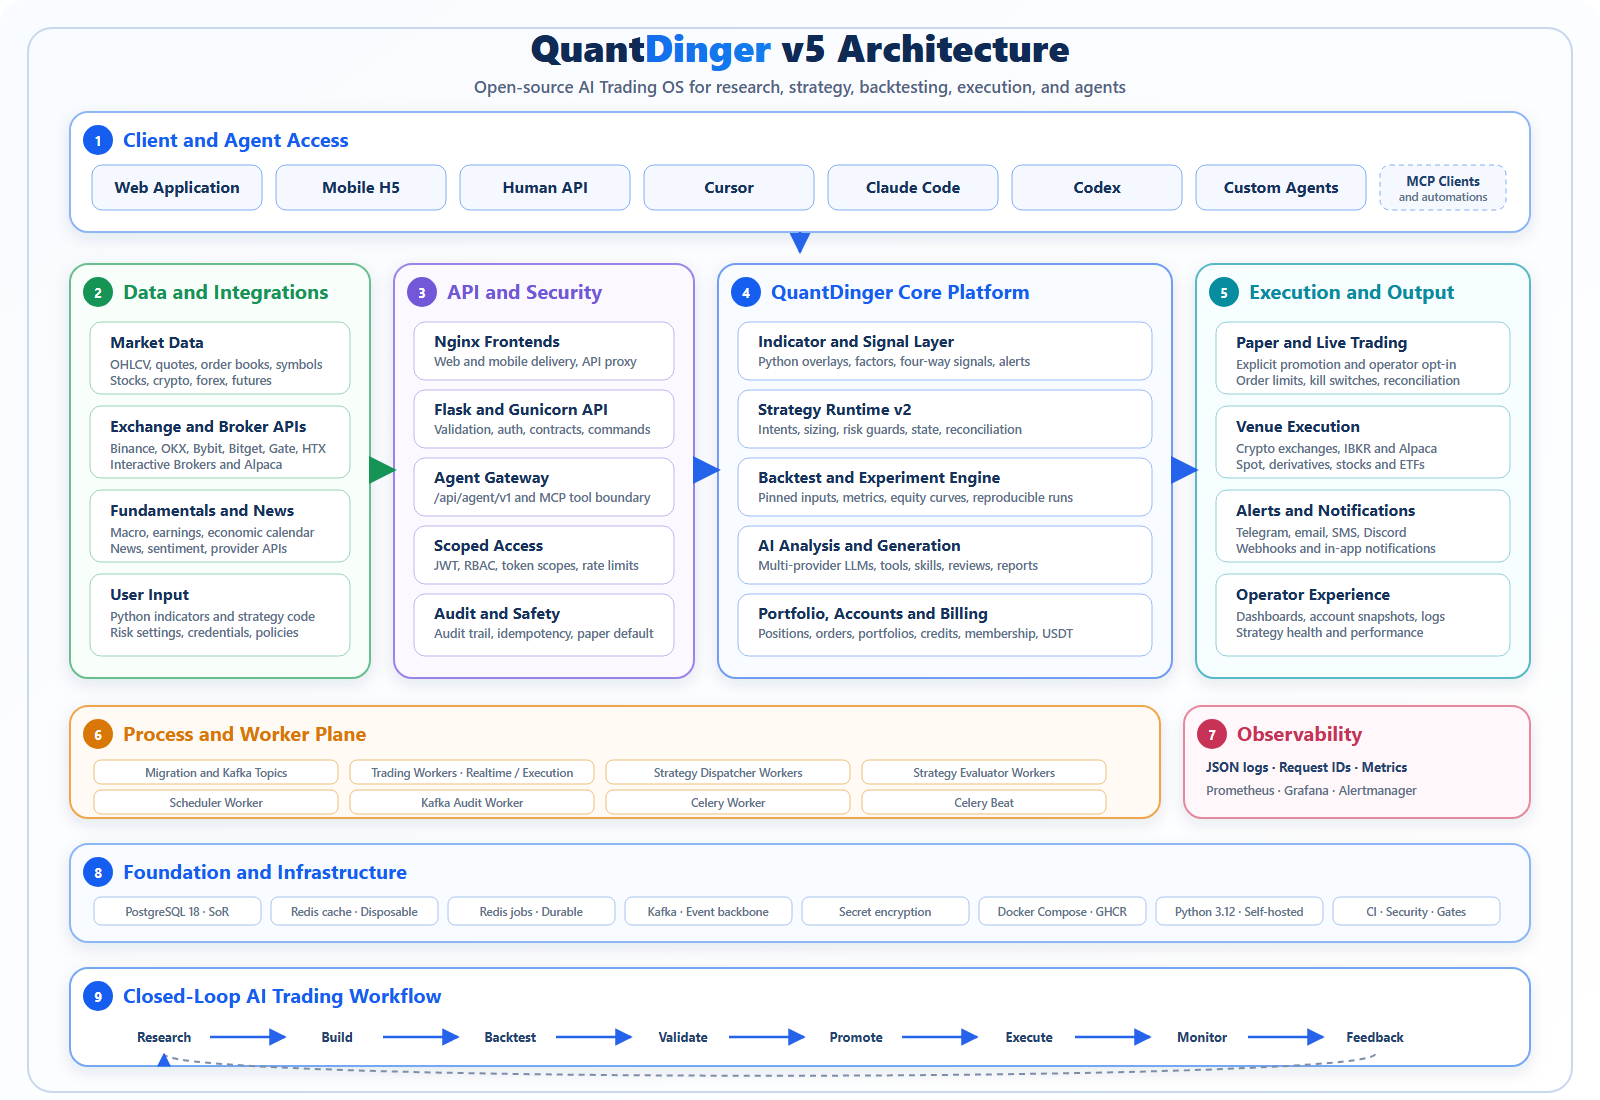
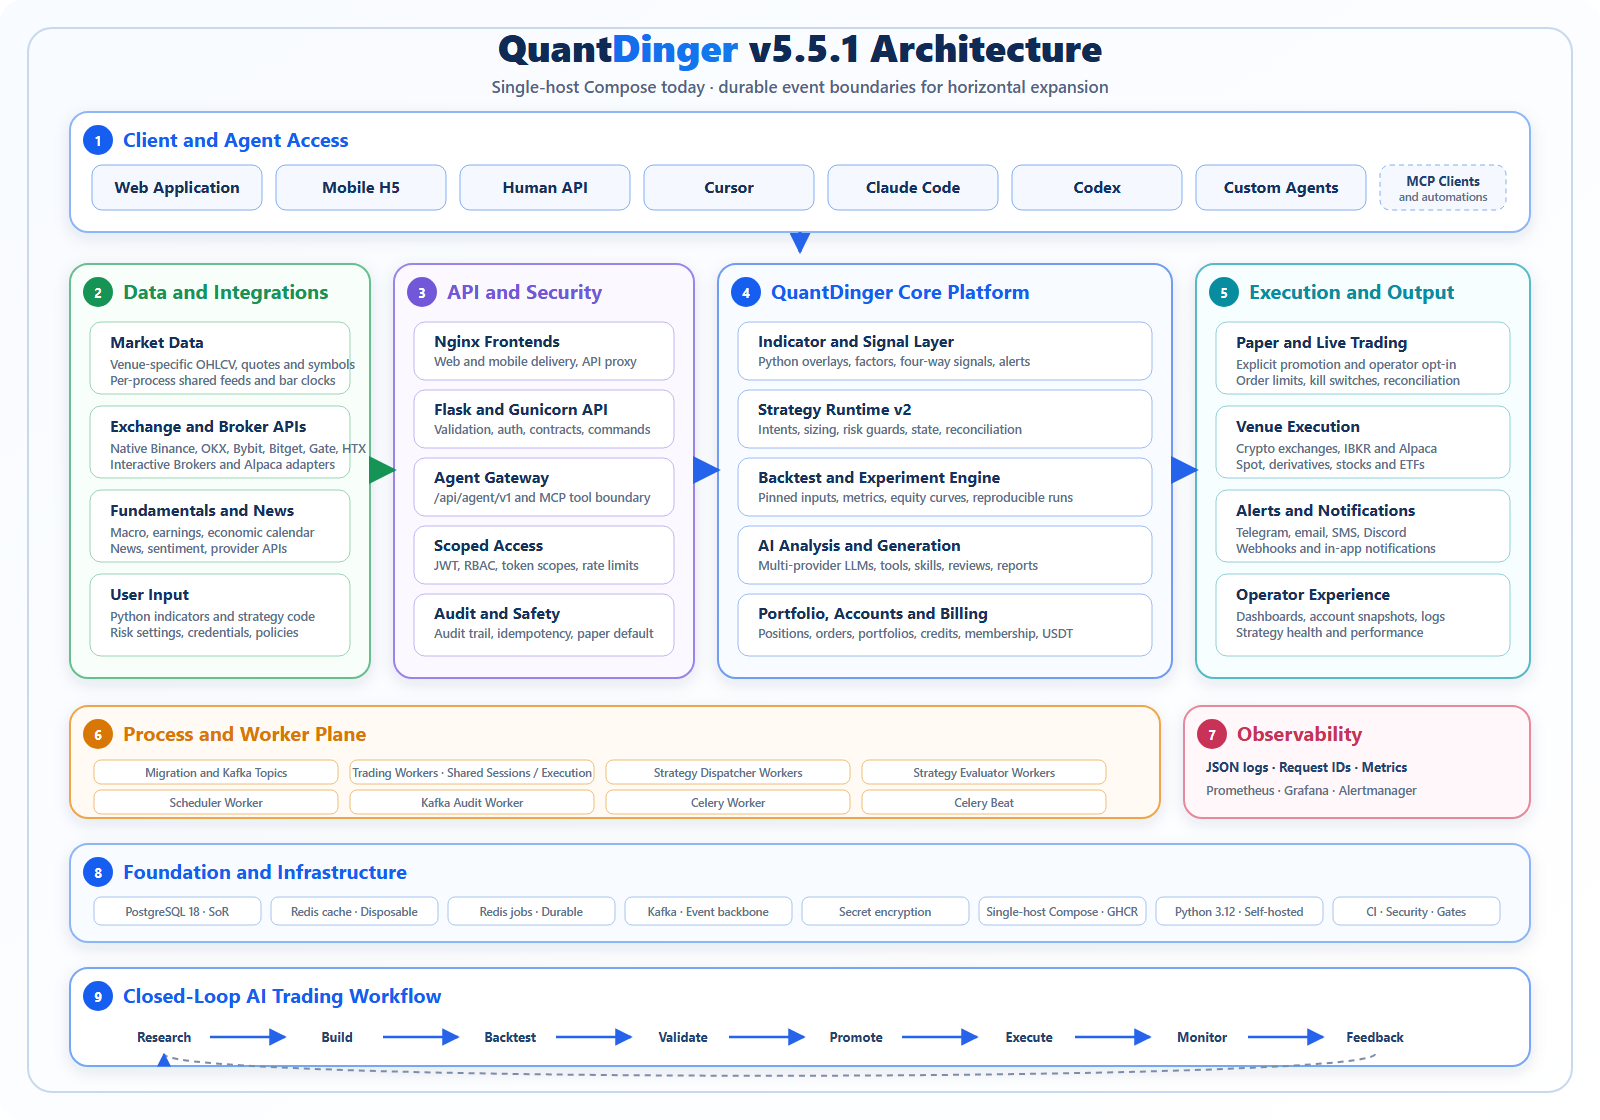
docs: prepare v5.5.1 release architecture

Changed region(s): [[0.0312, 0.0309, 0.9688, 1.0]]

diff --git a/docs/deployment/CLOUD_DEPLOYMENT_EN.md b/docs/deployment/CLOUD_DEPLOYMENT_EN.md
@@ -14,17 +14,20 @@ Use one public domain with a host-level Nginx reverse proxy:
 - Docker `frontend` binds to `127.0.0.1:8888`
 - Docker `mobile` binds to `127.0.0.1:8889`
 - Docker `backend` binds to `127.0.0.1:5000`
-- Docker `postgres` and `redis` bind to localhost only
+- Docker `postgres`, both Redis roles, and Kafka stay on the private Docker
+  network; any diagnostic host bindings must remain loopback-only
 
-Only expose `80` and `443` to the public internet. Keep `5000`, `5432`, and `6379` private.
+Only expose `80` and `443` to the public internet. Keep `5000`, `5432`,
+`6379`, and `29092` private.
 
 ## 1. Prepare the Server
 
 Recommended baseline:
 
 - Ubuntu 22.04 / 24.04 or Debian 12
-- 2 vCPU / 4 GB RAM minimum; 4 vCPU / 8 GB RAM is better for AI-heavy use
-- 30 GB+ disk space
+- 4 vCPU / 8 GB RAM minimum for a light single-host installation
+- 8 vCPU / 16 GB RAM recommended when strategies, AI jobs, and backtests run together
+- 50 GB+ disk space, with additional capacity for PostgreSQL backups and Kafka retention
 - Security group or firewall allows `22`, `80`, and `443`
 - A domain such as `app.example.com`
 
@@ -90,7 +93,7 @@ DB_PORT=127.0.0.1:5432
 REDIS_BIND=127.0.0.1:6379
 
 # Pin a release instead of floating latest, for example:
-# IMAGE_TAG=5.2.2
+# IMAGE_TAG=5.5.1
 
 # Use a Docker Hub mirror for postgres/redis when needed:
 # IMAGE_PREFIX=docker.m.daocloud.io/library/
@@ -114,7 +117,12 @@ docker compose -f docker-compose.ghcr.yml up -d --force-recreate frontend mobile
 
 The `backend` container listening internally on port `5000` is part of the application contract and is expected to remain fixed. `BACKEND_PORT=127.0.0.1:5000` controls only the host binding; frontend containers reach the API through `backend:5000` on the Docker network. To change the user-facing local port, update `FRONTEND_PORT` / `MOBILE_PORT` and recreate the containers.
 
-In production, never publish `5000`, `5432`, or `6379` directly to the internet. Expose only `80/443` through BT Panel or 1Panel Nginx/OpenResty: send page requests to the host-local Web frontend (default `127.0.0.1:8888`) and send `/api/` directly to the backend at `127.0.0.1:5000`. This remains same-origin in the browser while preventing a second proxy hop in the frontend container from replacing the real client IP.
+In production, never publish `5000`, `5432`, `6379`, or `29092` directly to
+the internet. Expose only `80/443` through BT Panel or 1Panel Nginx/OpenResty:
+send page requests to the host-local Web frontend (default
+`127.0.0.1:8888`) and send `/api/` directly to the backend at
+`127.0.0.1:5000`. This remains same-origin in the browser while preventing a
+second proxy hop in the frontend container from replacing the real client IP.
 
 ### Optional: full repository deployment
 

diff --git a/docs/deployment/CLOUD_DEPLOYMENT_CN.md b/docs/deployment/CLOUD_DEPLOYMENT_CN.md
@@ -14,17 +14,19 @@
 - Docker `frontend` 绑定到 `127.0.0.1:8888`
 - Docker `mobile` 绑定到 `127.0.0.1:8889`
 - Docker `backend` 绑定到 `127.0.0.1:5000`
-- Docker `postgres` 和 `redis` 只绑定本机地址
+- Docker `postgres`、两类 Redis 与 Kafka 保持在 Docker 私网；如为排障映射到宿主机，
+  也只能绑定回环地址
 
-公网只开放 `80` 和 `443`。不要把 `5000`、`5432`、`6379` 暴露到公网。
+公网只开放 `80` 和 `443`。不要把 `5000`、`5432`、`6379`、`29092` 暴露到公网。
 
 ## 1. 准备服务器
 
 推荐配置：
 
 - Ubuntu 22.04 / 24.04 或 Debian 12
-- 最低 2 核 4 GB 内存；AI 使用较多时建议 4 核 8 GB
-- 30 GB 以上磁盘空间
+- 轻量单机部署最低 4 核 8 GB 内存
+- 策略、AI 任务与回测同时运行时建议 8 核 16 GB 内存
+- 50 GB 以上磁盘，并为 PostgreSQL 备份与 Kafka 保留数据预留额外空间
 - 安全组或防火墙开放 `22`、`80`、`443`
 - 一个域名，例如 `app.example.com`
 
@@ -90,7 +92,7 @@ DB_PORT=127.0.0.1:5432
 REDIS_BIND=127.0.0.1:6379
 
 # 固定版本，避免一直使用 latest，例如：
-# IMAGE_TAG=5.2.2
+# IMAGE_TAG=5.5.1
 
 # postgres/redis 拉取慢时可设置 Docker Hub 镜像前缀：
 # IMAGE_PREFIX=docker.m.daocloud.io/library/
@@ -114,7 +116,10 @@ docker compose -f docker-compose.ghcr.yml up -d --force-recreate frontend mobile
 
 `backend` 容器内部监听 `5000` 是应用协议的一部分，保持不变是正常的。`BACKEND_PORT=127.0.0.1:5000` 修改的是宿主机绑定；前端容器通过 Docker 网络访问 `backend:5000`。如需调整用户访问端口，只修改 `FRONTEND_PORT` / `MOBILE_PORT`，然后重新创建容器。
 
-生产环境不要把 `5000`、`5432`、`6379` 直接暴露到公网。宝塔或 1Panel 的 Nginx/OpenResty 应只对公网开放 `80/443`：页面请求转发到宿主机本地的 Web 前端端口（默认 `127.0.0.1:8888`），`/api/` 请求直接转发到同样只绑定本机的后端端口 `127.0.0.1:5000`。这样仍保持浏览器同源，同时避免前端容器二次代理覆盖真实客户端 IP。
+生产环境不要把 `5000`、`5432`、`6379`、`29092` 直接暴露到公网。宝塔或
+1Panel 的 Nginx/OpenResty 应只对公网开放 `80/443`：页面请求转发到宿主机本地的 Web
+前端端口（默认 `127.0.0.1:8888`），`/api/` 请求直接转发到同样只绑定本机的后端端口
+`127.0.0.1:5000`。这样仍保持浏览器同源，同时避免前端容器二次代理覆盖真实客户端 IP。
 
 ### 可选：完整源码部署
 

diff --git a/docs/deployment/INSTALL_TROUBLESHOOTING_CN.md b/docs/deployment/INSTALL_TROUBLESHOOTING_CN.md
@@ -11,11 +11,12 @@
 docker compose pull
 docker compose up -d
 docker compose ps
-docker compose logs --tail=100 postgres migration backend
+docker compose logs --tail=100 env-sync postgres redis redis-jobs kafka kafka-init migration backend
 ```
 
-请优先查看第一个失败的依赖服务，而不是只看最后出现的 `backend` 错误。正常启动顺序
-是 PostgreSQL 与 Redis、`migration`、API 和各 Worker。
+请优先查看第一个失败的依赖服务，而不是只看最后出现的 `backend` 错误。正常启动顺序是
+`env-sync`、PostgreSQL/两类 Redis/Kafka 状态服务、`migration` 与 `kafka-init`，然后才是
+API 和各 Worker。
 
 ## 镜像拉取失败
 

diff --git a/docs/deployment/INSTALL_TROUBLESHOOTING.md b/docs/deployment/INSTALL_TROUBLESHOOTING.md
@@ -11,12 +11,12 @@ the repository root, next to `docker-compose.yml`.
 docker compose pull
 docker compose up -d
 docker compose ps
-docker compose logs --tail=100 postgres migration backend
+docker compose logs --tail=100 env-sync postgres redis redis-jobs kafka kafka-init migration backend
 ```
 
 Read the first failing dependency, not only the final `backend` error. The
-normal startup order is PostgreSQL and Redis, then `migration`, then the API and
-workers.
+normal startup order is `env-sync`, the PostgreSQL/Redis/Kafka state services,
+`migration` and `kafka-init`, then the API and workers.
 
 ## Image pull fails
 

diff --git a/docs/agent/MCP_SETUP.md b/docs/agent/MCP_SETUP.md
@@ -4,11 +4,14 @@ QuantDinger's MCP server wraps the Agent Gateway and keeps the REST API as the s
 
 ## Install
 
+The current PyPI package is `0.6.2` and exposes the complete 58-tool surface:
+
 ```bash
 pip install "quantdinger-mcp==0.6.2"
 ```
 
-For repository development, use `pip install -e ./mcp_server` instead.
+For package development from a repository checkout, use
+`pip install -e ./mcp_server` instead.
 
 Set these environment variables in the MCP client process:
 

diff --git a/docs/agent/MCP_SETUP_CN.md b/docs/agent/MCP_SETUP_CN.md
@@ -10,9 +10,13 @@ QuantDinger MCP Server 将 Agent Gateway 封装为 Agent 可调用的工具；RE
 
 ## 安装与环境变量
 
+PyPI 当前提供的 MCP 包版本为 `0.6.2`，包含完整的 58 个工具：
+
 ```bash
 pip install "quantdinger-mcp==0.6.2"
 ```
+
+从仓库开发 MCP 包时，可改用 `pip install -e ./mcp_server`。
 
 ```text
 QUANTDINGER_BASE_URL=http://localhost:8888

diff --git a/mcp_server/README.md b/mcp_server/README.md
@@ -5,7 +5,7 @@ The MCP server is a thin, tenant-scoped wrapper over `/api/agent/v1`. It exposes
 ## Install and run
 
 ```bash
-pip install "quantdinger-mcp==0.6.0"
+pip install "quantdinger-mcp==0.6.2"
 export QUANTDINGER_BASE_URL=http://localhost:8888
 export QUANTDINGER_AGENT_TOKEN=qd_agent_xxx
 quantdinger-mcp
